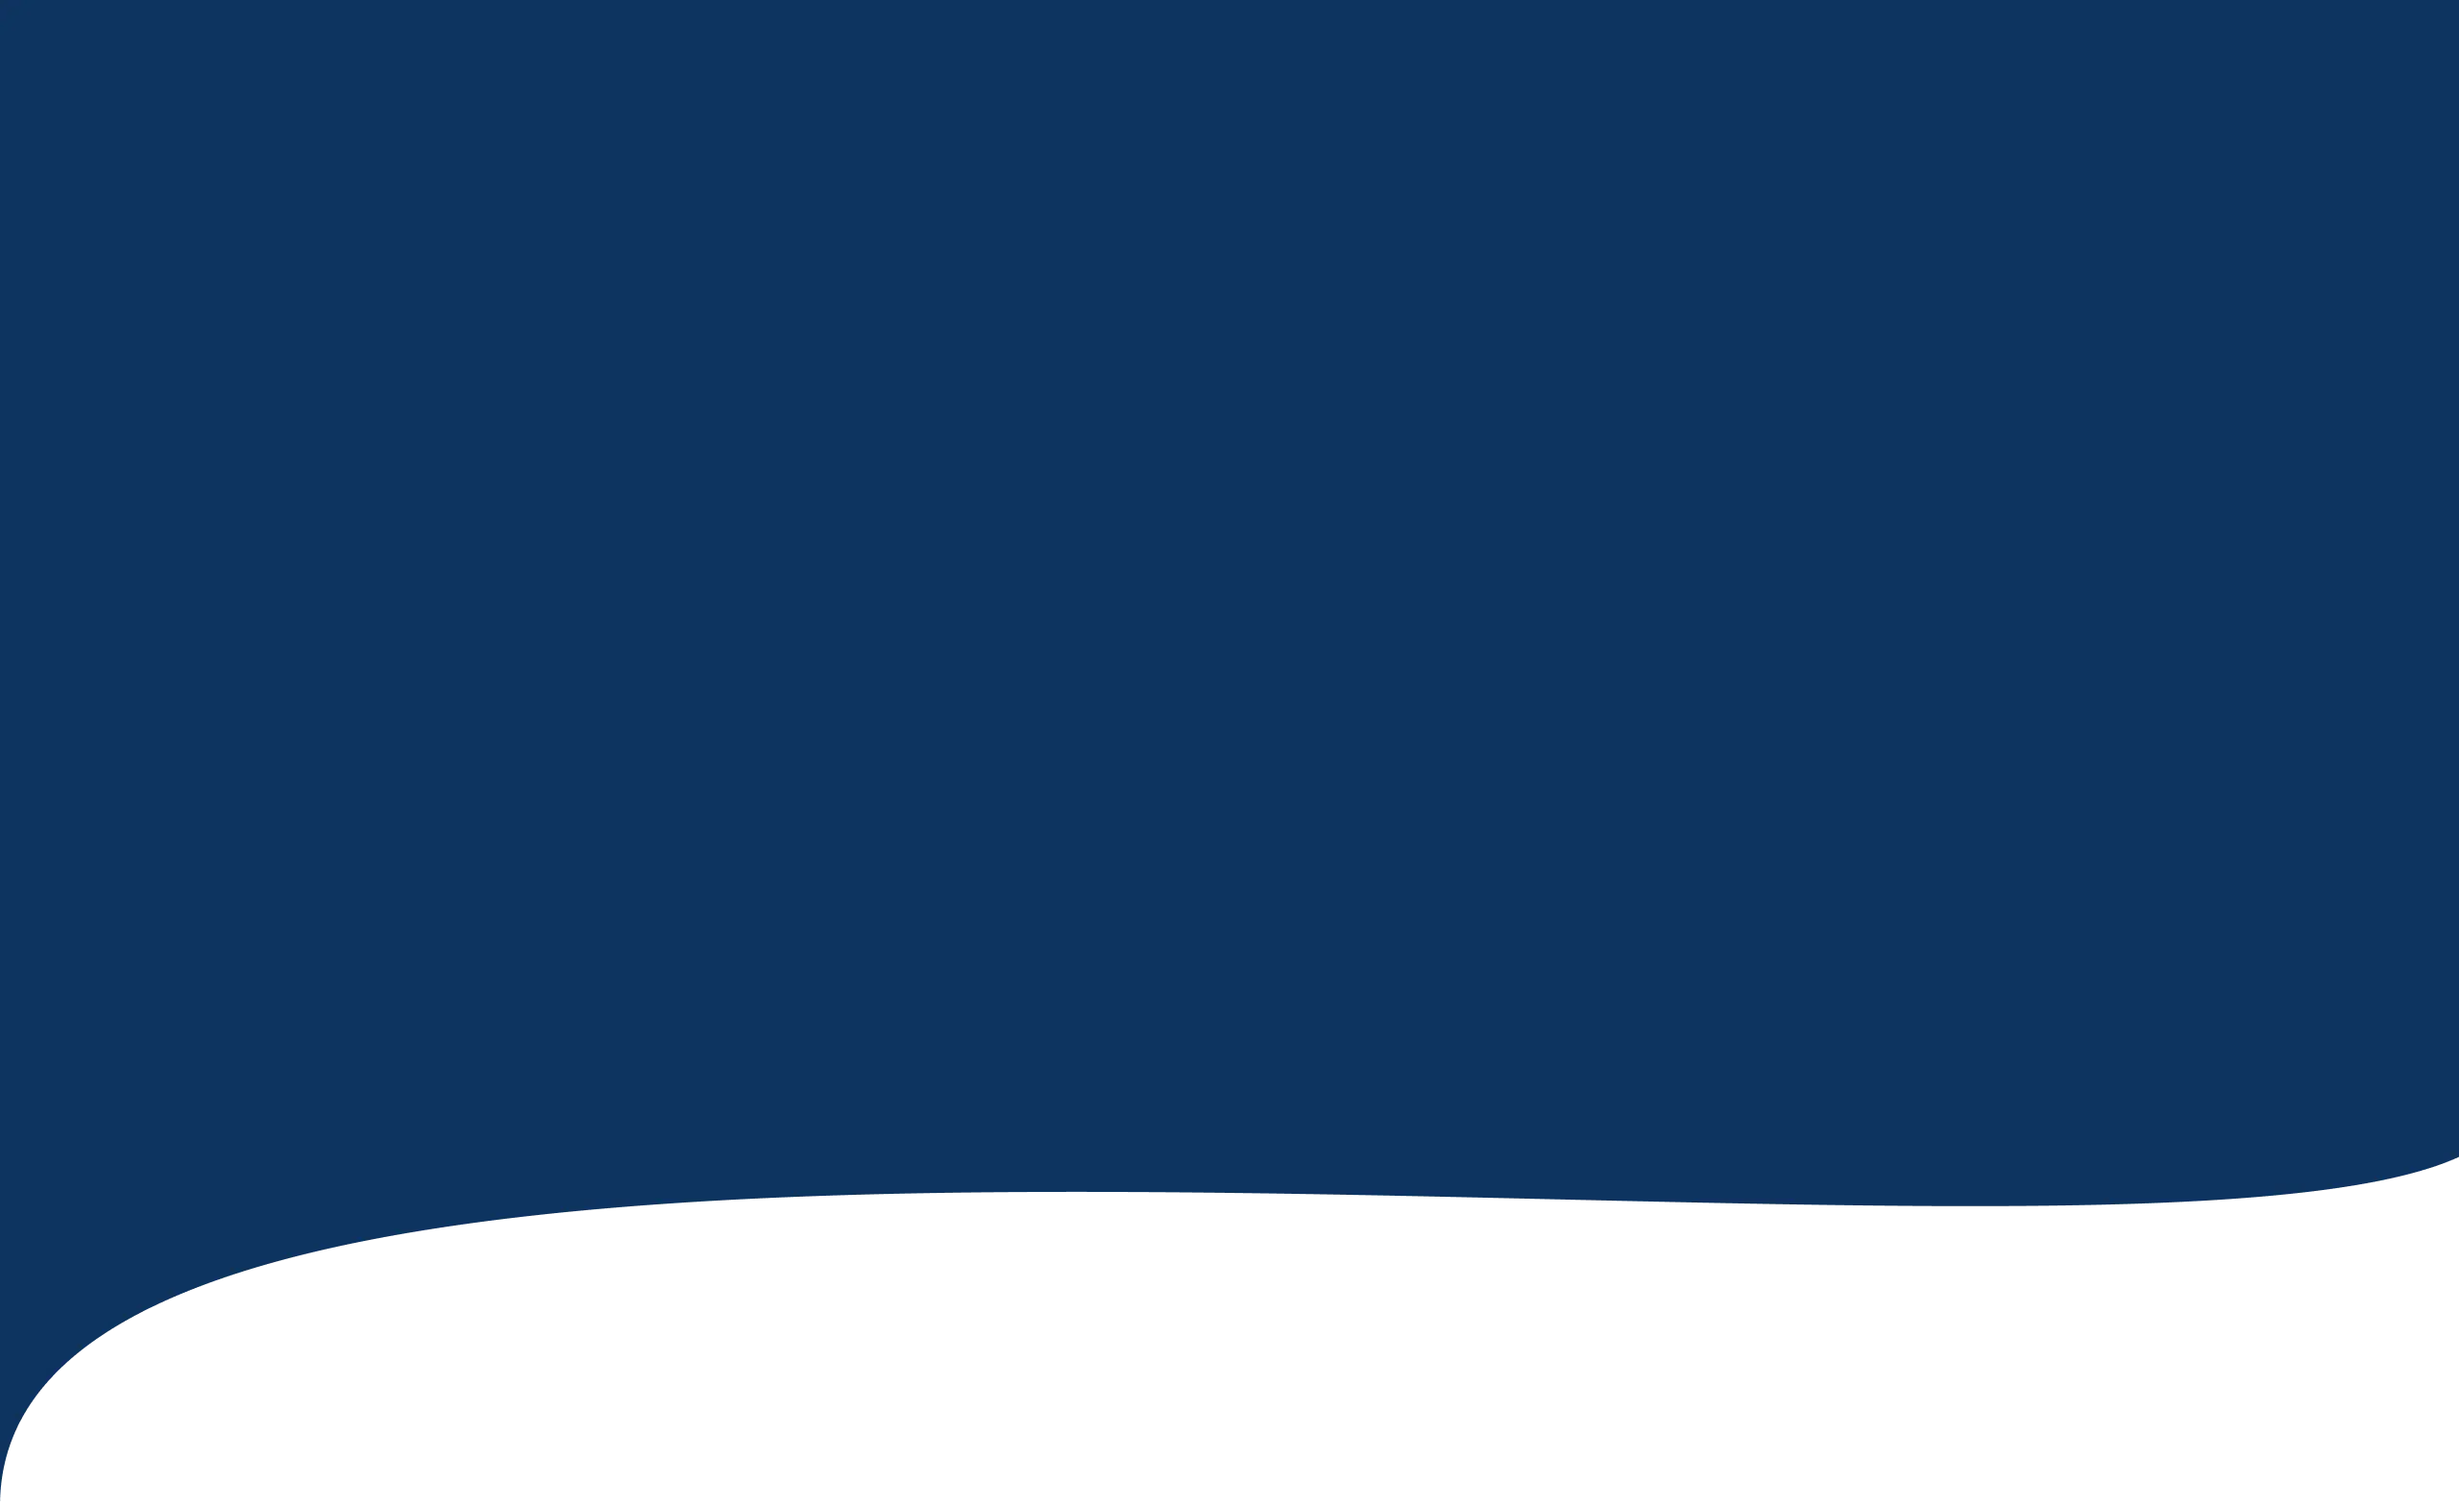
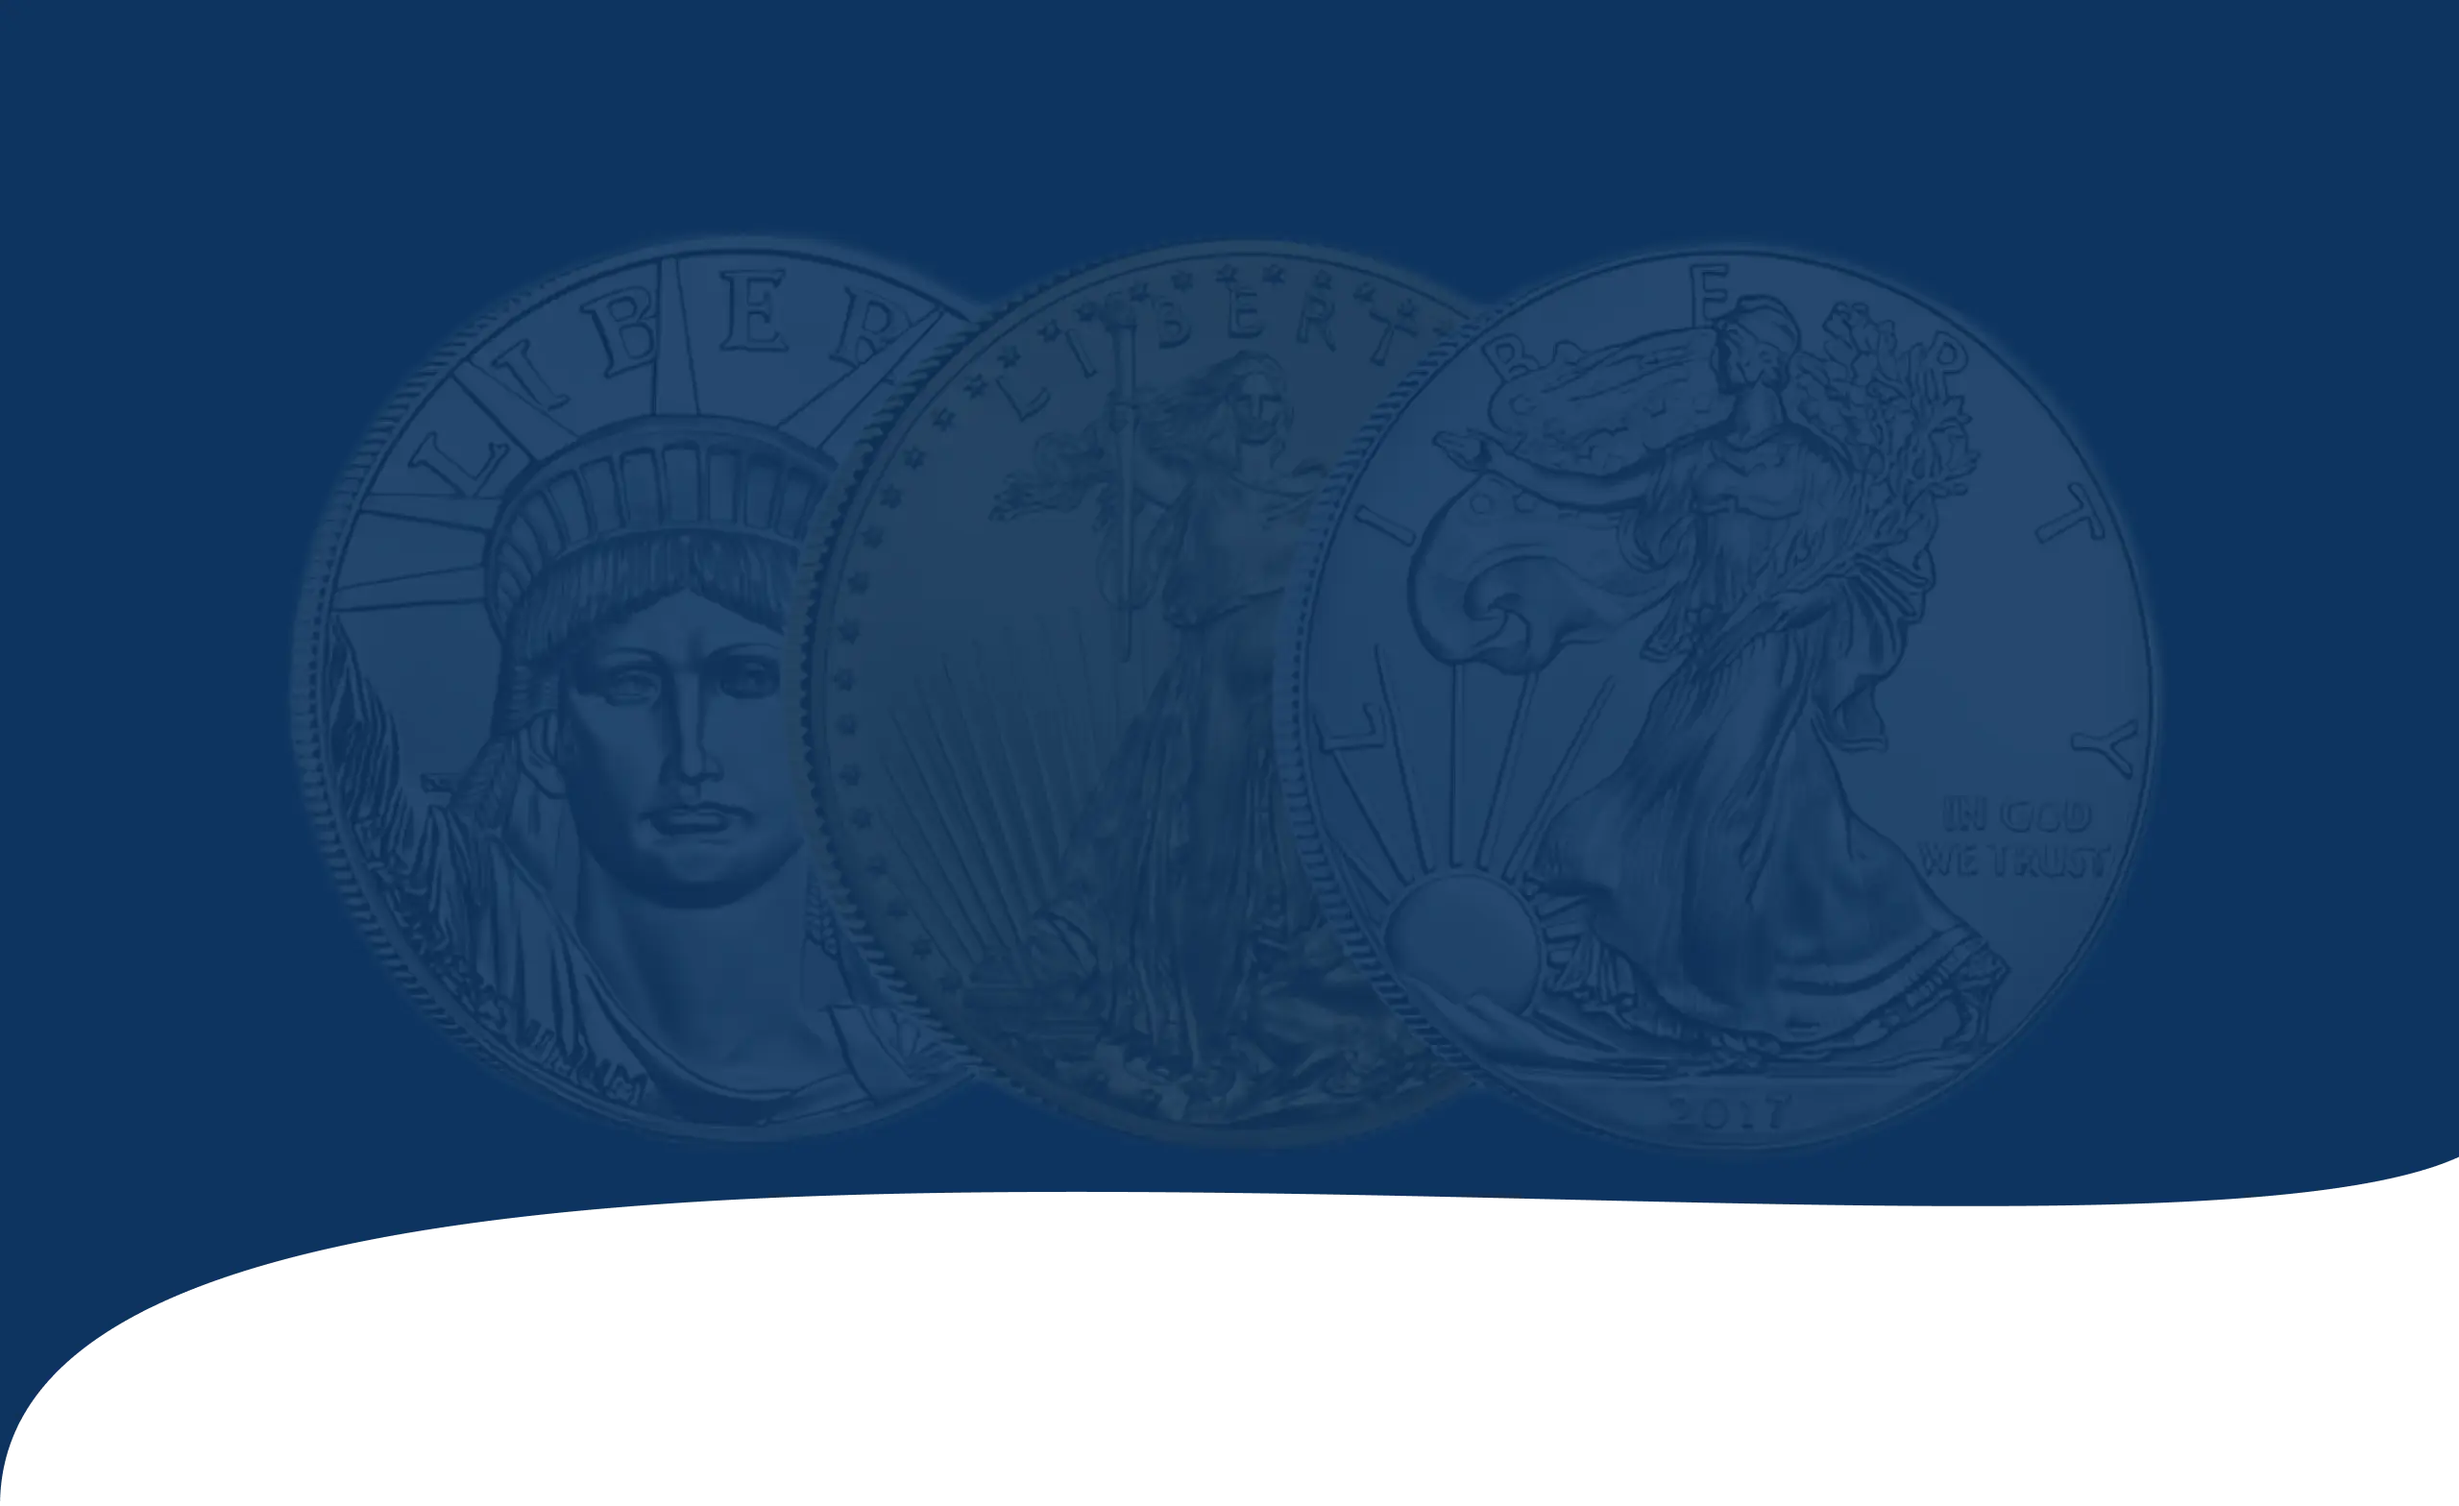
hero section done

diff --git a/index.html b/index.html
@@ -28,6 +28,13 @@
           .flex_wrap{
             flex-wrap: wrap !important;
           }
+          .bg_100{
+            background-size: 122% 100% !important;
+          }
+          .px_0{
+            padding-left: 0 !important;
+            padding-right: 0 !important;
+          }
         }
         </style>
 </head>
@@ -35,7 +42,21 @@
   <div  style="width: 100%; background-color: #E7EBEF;padding: 6px;">
       <div style="width: 100%; padding: 100px 0 134px 0;" class="py_40">
           <div style="width: 100%; max-width: 650px; background: white; margin: 0 auto;">
-            
+            <!-- ====== HERO SECTION ======= -->
+             <div class="p_32_20 bg_100" style="background-image: url(./assets/images/webp/hero-bg.webp); background-position: center; background-size: cover; padding: 0 60px;">
+                    <div style="display: flex; justify-content: space-between; align-items: center; padding-top: 12px;">
+                        <a href="#"><img src="./assets/images/svg/logo.svg" alt="logo"></a>
+                        <div style="display: flex;">
+                            <a href="" > <div style="display: flex; gap: 5px;">
+                                <div style="width: 21px;height: 21px; display: flex; padding-top: 2px;padding-left: 2px; background: white; border-radius: 50%; justify-content: center; align-items: center;">
+                                    <span><img src="./assets/images/svg/nav-call-icon.svg" alt="nav-call-icon"></span>
+                                </div> <span style="font-weight: 400;font-size: 14px; line-height: 21px; color: white; text-decoration: none;">1-888-617-6122</span>
+                            </div> 
+                        </a>
+                        </div>
+                    </div>
+                    <h1 class="px_0" style="font-weight: 600;font-size: 32px;line-height: 38.4px;text-align: center;color: white; padding: 49px 52px 157px 52px; ">Gold A <span style="color: #E7B854;">“Core Asset”</span> Ahead Of Election – 74 Million Reasons Why!</h1>
+             </div>
             
             <!-- ====== METAL INVESTING ====== -->
              <div class="p_32_20" style="background-image: url(./assets/images/webp/metal.webp); background-size: cover; padding: 40px 60px;">
